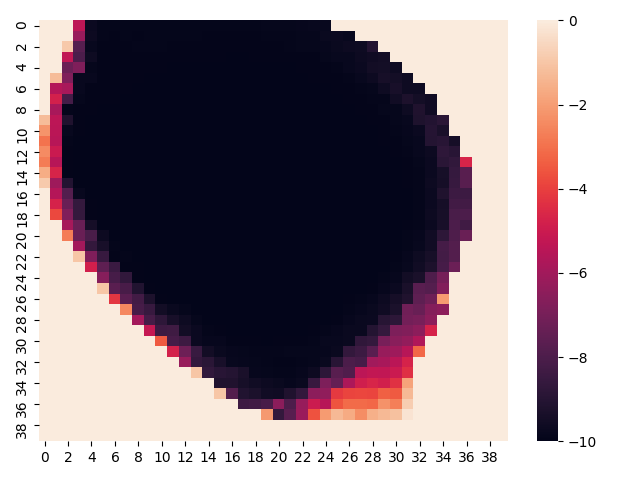
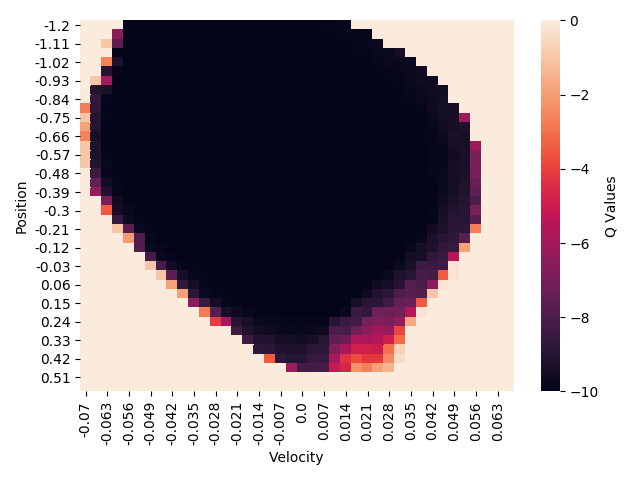
All Good

diff --git a/gymexample.py b/gymexample.py
@@ -11,8 +11,7 @@ initial_learning_rate = 1.0
 minimum_learning_rate = 0.003
 discount_factor = 0.99
 epsilon = 0.02
-# Needed to plot the iterations needed to converge per episode
-iterations_needed = []
+iterations_needed = []  # Needed to plot the iterations needed to converge per episode
 
 gym.envs.register(
     id='MountainCarMyEasyVersion-v0',
@@ -69,18 +68,17 @@ if __name__ == '__main__':
     optimal_policy = np.argmax(q_learning_values, axis=2)
     print(optimal_policy)
 
-    # In order to plot the q values of the policy take the max value in the last dimension of the q_learning_table
-
-    # q_values_to_plot = np.max(q_learning_values, axis=2)
     # plt.plot(range(len(iterations_needed)), iterations_needed)
 
-    state_values = pd.DataFrame(index=np.round(np.arange(-1.2, 0.6, 0.045), 2), columns=np.round(np.arange(-0.07, 0.07, 0.0035), 3),
-                                data=np.max(q_learning_values, axis=2))
+    # In order to plot the q values of the policy take the max value in the last dimension of the q_learning_table
+    state_values = pd.DataFrame(index=np.round(np.arange(-1.2, 0.6, 0.045), 2), columns=np.round(np.arange(-0.07, 0.07, 0.0035), 3), data=np.max(q_learning_values, axis=2))
 
-    sns.heatmap(state_values, linewidths=0)
+    sns.heatmap(state_values, linewidths=0, cbar_kws={'label': 'Q Values'})
+    plt.xlabel("Velocity")
+    plt.ylabel("Position")
     plt.show()
 
-    # Perform a demonstration
+    # Perform a demonstration with the optimal Policy
     observation = env.reset()
     done = False
     while not done:
